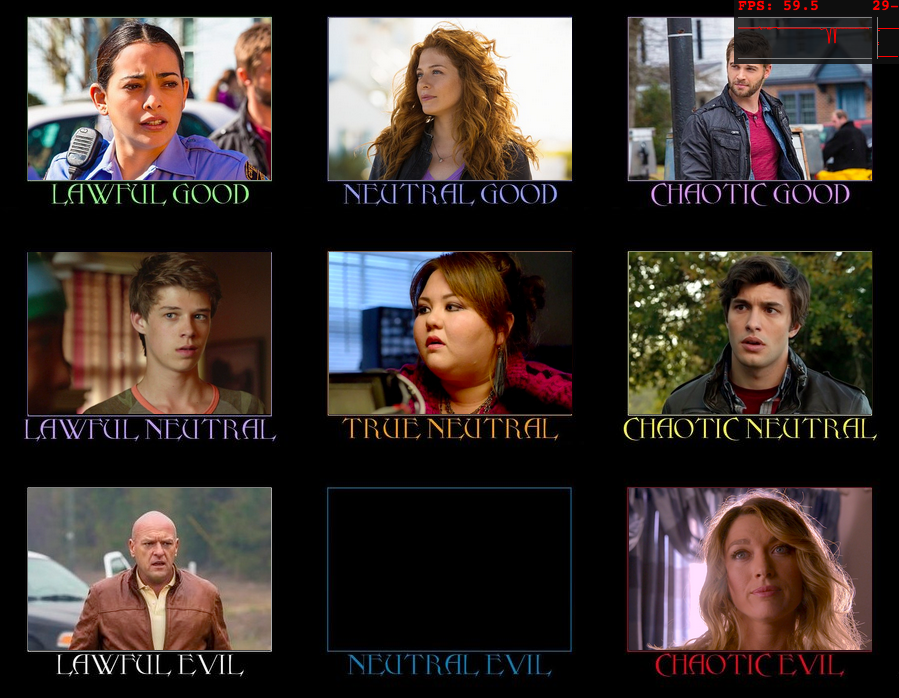
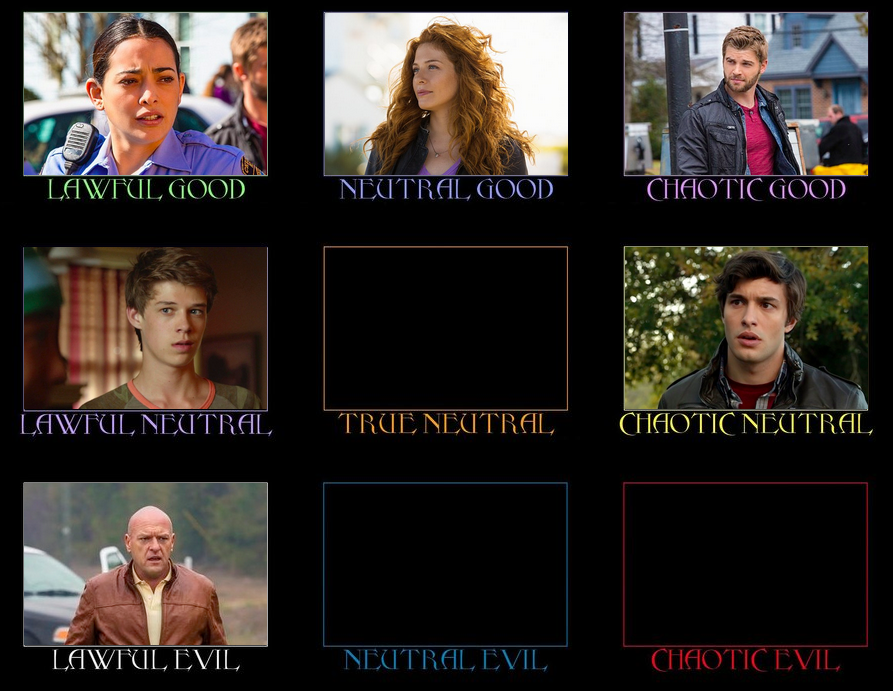
removed dodee and maxine

diff --git a/domechart.html b/domechart.html
@@ -5,10 +5,10 @@
   <li id="barbie"></li>
 
   <li id="joe"></li>
-  <li id="dodee"></li>
+  <li></li>
   <li id="junior"></li>
 
   <li id="jim"></li>
   <li></li>
-  <li id="maxine"></li>
+  <li></li>
 </ul>
